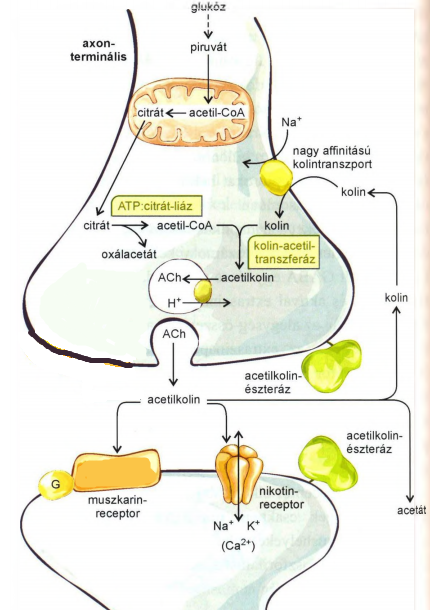
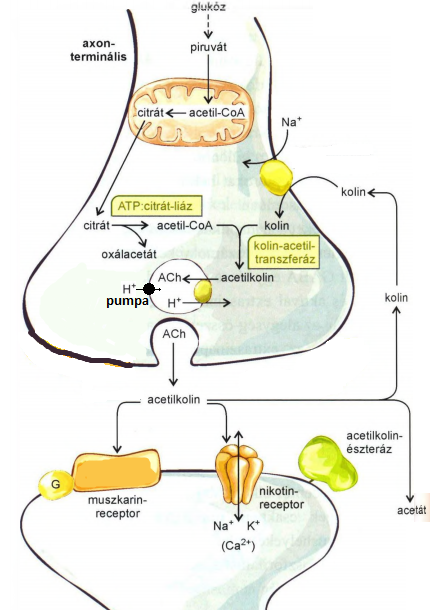
make some changes

diff --git a/BioKemia/III/biokemia_III.html b/BioKemia/III/biokemia_III.html
@@ -989,16 +989,20 @@
 			<font style="font-size:80%">kis mennyiségben hormon, mert mellékvesevelőben is termelődik</font>
 			<li>adrenalin &#10140; hormon, mellékvesevelő</li>
 			<span class="IMPORTANT">adrenalin nem neurotranszmitter!!!!</span>
-			<li>dopamin (lásd később) &#10140; neurotranszmitter, KIR-ben termelődik</li>
+			<li>dopamin &#10140; neurotranszmitter, KIR-ben termelődik</li>
 		</ul>
 	  <hr><strong>szintézis</strong> <span class="IMPORTANT">képletek</span>
 		<li>Tyr-felvétel</li>
-		<li>1) Tyr-hidroxiláz transzferáz</li><ul>
+		<li>1) Tyr-hidroxiláz</li><ul>
 			<li>ez a sebességmeghatározó lépés</li>
 			<li>kofaktora: tetrahidrobiopterin (lásd még fenilketonúria)</li>
 		</ul>
-		<li>2) aromás aminosav dekarboxiláz <font style="font-size:80%">(nem specifikus &#10140; más aromás aminosavakat is dekarboxilál)</font></li>
-		ez gyógyszerrel gátolható: gyógyszer és dopamin se jut KIR-be be &#10140; Parkinson-kór kezelése
+		<li>2) aromás aminosav dekarboxiláz <font style="font-size:80%">(nem specifikus &#10140; más aromás aminosavakat is dekarboxilál)</font></li><ul>
+			<li>	Parkinson-kór esetében dopaminhiány van a KIR-ben &#10140; 	ezért ilyenkor...</li>
+			<li>	egyrészt beadnak Levodopa=L-dopa-t &#10140; ez átjut vér-agy gáton &#10140; nő a dopamin agyban, de nőne perifériásan is</li>
+			<li>másrészt beadnak aromás-aminosav-dekarboxiláz gátlót is &#10140; ez már NEM jut át vér-agy gáton (dopamin se) &#10140; perifériásan mégse fog nőni a dopamin</li>
+			forrás: TK + ea + farmakológia alapjai
+		</ul>
 		<li>vezikulába felvételre kerül</li><ul>
 			<li>VMAT (vezikuláris monoamin-transzporter) végzi &#10140; proton-antiporter</li>
 			<li>proton-pumpa biztosítja a VMAT működését</li>
@@ -1728,10 +1732,12 @@
 			NaK-ATPáz gátlása &#10140; [Na<sup>+</sup>]<sub>IC</sub> megnő &#10140; ennek hatására a két irányban működni képes Na<sup>+</sup>/Ca<sup>2+</sup>-antiporteren keresztül Ca<sup>2+</sup> lép be a sejtekbe, s közvetlenül ez a felelős a szívizom-kontrakció fokozásáért
 			<img data-src="szvmfkzs.png">
 		</ul></details>
-		<details class="kerdes 3/2"><summary>A szívglikozidok hatása a Na<sup>+</sup>K<sup>+</sup>-pumpára. <strong>Endogén szívglikozidok keletkezése, hatása</strong>.</summary><ul class="normal">
-			<li>keletkezésük &#10140; a mellékvesekéreg a zona_fasciculata-ban szintetizálódnak progeszteronból</li>
+		<details class="kerdes 3/1"><summary>A szívglikozidok hatása a Na<sup>+</sup>K<sup>+</sup>-pumpára. <strong>Endogén szívglikozidok keletkezése</strong>, hatása.</summary><ul class="normal">
+			<li>a mellékvesekéreg a zona_fasciculata-ban szintetizálódnak progeszteronból</li>
+		</ul></details>
+		<details class="kerdes 3/1"><summary>A szívglikozidok hatása a Na<sup>+</sup>K<sup>+</sup>-pumpára. <strong>Endogén szívglikozidok</strong> keletkezése, <strong>hatása</strong>.</summary><ul class="normal">
 			<li>ezek is ugyanoda (&alpha;-alegység E2-P konformáció) kötődnek</li>
-			<li>hatása &#10140; érfali simaizomsejtekben a Na<sup>+</sup>K<sup>+</sup>-ATPáz gátlás eredményeképpen létrejövő [Ca<sup>2+</sup>]<sub>IC</sub>-emelkedés vazokonstrikciót okoz</li>
+			<li>érfali simaizomsejtekben a Na<sup>+</sup>K<sup>+</sup>-ATPáz gátlás eredményeképpen létrejövő [Ca<sup>2+</sup>]<sub>IC</sub>-emelkedés vazokonstrikciót okoz</li>
 		</ul></details>
 	</ul></details>
 	<details class="open"><summary class="status"><strong>23. A Na<sup>+</sup>/H<sup>+</sup>-cseretranszporter, H<sup>+</sup>-ATP-áz, vezikuláris neurotranszmitter antiporter előfordulása, szerepe</strong></summary><ul class="normal">
@@ -1775,7 +1781,7 @@
 		<details class="kerdes 3/5"><summary><strong>ABC-transzporterek</strong> általános tulajdonságai, <strong>funkciója</strong></summary><ul class="normal">
 			ATP-t felhasználva anyagokat pumpálnak ki a sejtekből:
 			<li>pl. tumorellenes szerek</li><ul>
-				<li><span class="WHITE">ABCB1</span> &#10140; bélhámsejtek apikális membránjában található &#10140; lipofil karakterű drogokat pumpál ki a sejtekből &#10140; tumorsejtekben a kemoterápiás kezelés során gyakran fordul elő az ABCB1 fokozott expressziója, ezek pedig kipumpálják a tumorellenes szereket <abbr title="tumorsejtekben a kemoterápiás kezelés során gyakran fordul elő az ABCB1 fokozott expressziója, melynek következtében a sejtek kipumpálják a daganatos betegségek kezelésében alkalmazott citosztatikumokat, nagymértékben lerontva ezáltal a kezelés hatékonyságát">'</abbr></li>
+				<li><span class="WHITE">ABCB1</span> (multidrog rezisztencia protein) &#10140; bélhámsejtek apikális membránjában található &#10140; lipofil karakterű drogokat pumpál ki a sejtekből &#10140; tumorsejtekben a kemoterápiás kezelés során gyakran fordul elő az ABCB1 fokozott expressziója, ezek pedig kipumpálják a tumorellenes szereket <abbr title="tumorsejtekben a kemoterápiás kezelés során gyakran fordul elő az ABCB1 fokozott expressziója, melynek következtében a sejtek kipumpálják a daganatos betegségek kezelésében alkalmazott citosztatikumokat, nagymértékben lerontva ezáltal a kezelés hatékonyságát">'</abbr></li>
 			</ul>
 			<li>pl. epesavak & koleszterin <span class="LASD">epesavak entero-hepatikus cirkulációja</span></li><ul>
 				<li><span class="WHITE">ABCG5/ABCG8</span> &#10140; májban a koleszterin pumpál ki epébe</li>
@@ -1785,7 +1791,7 @@
 				<li><span class="WHITE">ABCA1</span> &#10140; májban nHDL képzését végzi: foszfolipidek & koleszterin pumpál ki (reverz koleszterintranszport)</li>
 			</ul>
 			<li>pl. ionok</li><ul>
-				<li><span class="WHITE"><abbr title="cisztikus-fibrózis-transzporter">CFTR</abbr></span> &#10140; transzcelluláris Cl<sup>-</sup> transzportot tesz lehetővé</li>
+				<li><span class="WHITE"><abbr title="cisztikus-fibrózis-transzporter">CFTR</abbr></span> &#10140; transzcelluláris Cl<sup>-</sup> transzportot tesz lehetővé: pl. nyálelválasztás(nyálmirigy & pancreas)</li>
 			</ul>
 			<li>ATP-függő K<sup>+</sup> csatorna szulfonilurea-receptor(SUR) alegysége &#10140; ez megkötve ATP-t bezárja a csatornát (lásd élettan: inzulin)</li>
 		</ul></details>
@@ -1819,24 +1825,32 @@
 	  <strong>vezikulum keletkezése</strong>
 		<li>sejttestben képződnek</li>
 		<li>mikrotubulusokon keresztül lejutnak az axon terminálisba (axonon keresztül)</li>
-		<li>proton-pumpa segítségével neurotranszmitterrel feltöltődik</li>
-	  <hr><strong>exocitózis lépései</strong>
-		<li>dokkolás &#10140; <font style="font-size:80%">létrejön a kapcsolat a vezikula és a plazmamembrán között</font></li>
-		<li>priming('prájming')</li>
-		folytatáshoz Ca<sup>2+</sup>-jel kell (szinapszis)
-		<li>fúzió &#10140; neurotranszmitter kijut</li>
-		&#10140; exocitózis után, hogy a membrán mérete ne nőljön, endocitózissal visszavételre kerülnek a veziklulák
+		<li><abbr title="be">proton</abbr>-pumpa + <abbr title="ki">H<sup>+</sup></abbr>/<abbr title="be">neurotranszmitter</abbr>-antiporter 'együttműködésével' feltöltődik neurotranszmitterrel</li>
 	  <hr>
+		<table><tr><th>exocitózis lépései</th>  <th>lényege</th>  <th><abbr title="melyek szerepet játszanak benne">fehérjék</abbr></th></tr>
+			<tr><th>dokkolás</th>
+				<td><font style="font-size:80%">létrejön a kapcsolat a vezikula és a plazmamembrán között</font></td>
+				<td>Rab fehérje(GTPáz)</td>
+			</tr>
+			<tr><th>priming('prájming')</th>
+				<td>SNARE fehérjék összekapcsolódnak</td>
+				<td style="text-align:left">
+					<li>V-SNARE &#10140; vezikula membránjában vannak &#10140; pl. <span class="WHITE">synaptobrevin</span></li>
+					<li>T-SNARE &#10140; plazmamembránban vannak &#10140; pl. <span class="WHITE">syntaxin</span> <span class="WHITE">SNAP-25</span></li>
+				</td>
+			</tr>
+			<tr><th>folytatáshoz Ca<sup>2+</sup>-jel kell (szinapszis)</th>
+				<td colspan="2"><span class="WHITE">synaptotagmin</span> &#10140; Ca<sup>2+</sup>-növekedést ez érzékeli: C2-doménjével megköti, és hatására a fúzió megindul</td>
+			</tr>
+			<tr><th>fúzió</th>
+				<td>neurotranszmitter kijut</td>
+				<td><span class="WHITE">NSF</span>(ATPáz) &#10140; fúzió után ez tekeri szét a fehérjéket újra</td>
+			</tr>
+		</table>
+	  <hr>
+		<li>exocitózis után, hogy a membrán mérete ne nőljön, endocitózissal visszavételre kerülnek a veziklulák</li>
 		<li>a fúzió nagyon gyorsan játszódik le (kevesebb, mint 1ms) (hisz akciós potenciálok egymás után nagyon gyors végbemehetnek)</li>
-		<li><font style="font-size:80%">klatrinburkos exocitózis (klatrinbrok borítja a vezikulát a 'dokkolás előtt')</font></li>
-	  <hr><strong>főbb fehérjék és funkciójuk</strong>
-		<li><font style="font-size:80%">Rab fehérje(GTPáz) &#10140; dokkolásban játszik szerepet</font></li>
-		<li>priming('prájming') &#10140; SNARE fehérjék kapcsolódnak össze</li><ul>
-			<li>V-SNARE &#10140; vezikula membránjában vannak &#10140; pl. synaptobrevin</li>
-			<li>T-SNARE &#10140; plazmamembránban vannak &#10140; pl. syntaxin, SNAP-25</li>
-		</ul>
-		<li>synaptotagmin &#10140; Ca<sup>2+</sup>-növekedést ez érzékeli: C2-doménjével megköti, és hatására a fúzió megindul</li>
-		<li>NSF(ATPáz) &#10140; fúzió után ez tekeri szét a fehérjéket újra</li>
+		<li><font style="font-size:80%">az exocitózis klatrinburkos (klatrinburok borítja a vezikulát a 'dokkolás előtt')</font></li>
 	  <hr><strong>botulinum(toxin)</strong>
 		<li>ezeket anaerob baktériumok termelik, pl. tetanusz</li>
 		<li>SNARE fehérjétek hasítja &#10140; gátolják a kolinerg-szinapszist <abbr title="&#10140; görcsöt okoz">'</abbr></li>
@@ -1844,44 +1858,51 @@
 		<font style="font-size:80%"><span class="IMPORTANT">képek</span> &#10140; csak azért, hátha segítik a megértést</font>
 		<img data-src="mhzfzn.png">
 	</ul></details>
-	<details class="kerdes 3/6"><summary class="status"><strong>27. Acetilkolin muszkarinreceptorok típusai, szerkezete, előfordulása, jelátvitele, hatásai röviden</strong></summary><ul class="normal">
-		<details><summary><strong>TÁBLÁZAT</strong></summary><ul class="normal">
+	<details class="open"><summary class="status"><strong>27. Acetilkolin muszkarinreceptorok típusai, szerkezete, előfordulása, jelátvitele, hatásai röviden</strong></summary><ul class="normal">
+		<details class="kerdes 3/2"><summary><strong>Acetilkolin muszkarinreceptorok típusai, szerkezete</strong>, előfordulása, jelátvitele, hatásai röviden</summary><ul class="normal">
+			<div class="imp [106]"></div>
+			<details><summary>(7TM-fehérjék mechanizmusa)</summary><ul class="normal">
+				<div class="imp [444]"></div>
+			</ul></details>
+		</ul></details>
+		<details class="kerdes 3/3"><summary><strong>Acetilkolin muszkarinreceptorok</strong> típusai, szerkezete, előfordulása, <strong>jelátvitele</strong>, hatásai röviden</summary><ul class="normal">
+		  <strong>G<sub>i,o</sub> jelátvitel</strong>
+			<li>adenilát-ciklázt gátol &#10140; cAMP csökken</li>
+			<li>K<sup>+</sup>-csatornát nyit &#10140; hiperpolarizáció</li>
+		  <hr><strong>G<sub>q,11</sub> jelátvitel</strong>
+			<li>PLC&beta;/&gamma;-t aktivál &#10140; PIP<sub>2</sub> lebomlik:</li><ul>
+				<li>IP<sub>3</sub> &#10140; Ca<sup>2+</sup>-csatornát nyit ER</li>
+				<li>DAG &#10140; PKC-t aktiválja</li>
+			</ul>
+		</ul></details>
+		<details class="kerdes 3/3"><summary><strong>Acetilkolin muszkarinreceptorok</strong> típusai, szerkezete, <strong>előfordulása</strong>, jelátvitele, <strong>hatásai</strong> röviden</summary><ul class="normal">
+			<li>szívben M<sub>2</sub> található</li><ul>
+				<li>psy IR aktiválja</li>
+				<li>hatása &#10140; negatív kronotróp<abbr title="és negatív dromotróp is">'</abbr> szabályozás (szívfrekvencia csökken)</li>
+			</ul>
+			<li>mirigyek(exo/endokrin) elválasztását M<sub>3</sub> serkenti</li>
+			<li>KIR-ben található az M<sub>1,2,4,5</sub> &#10140; neurotranszmitter-felszabadulást gátolják</li>
+		</ul></details>
+	</ul></details>
+	<details class="open"><summary class="status"><strong>28. Acetilkolin nikotinreceptorok típusai, szerkezete, előfordulása, jelátvitele, hatásai röviden</strong></summary><ul class="normal">
+		<details class="kerdes 3/2"><summary><strong>Acetilkolin nikotinreceptorok típusai</strong>, szerkezete, előfordulása, jelátvitele, hatásai röviden</summary><ul class="normal">
 			<div class="imp [106]"></div>
 		</ul></details>
-	  <hr><strong>G<sub>i,o</sub> jelátvitel</strong>
-		<li>adenilát-ciklázt gátol &#10140; cAMP csökken</li>
-		<li>K<sup>+</sup>-csatornát nyit &#10140; hiperpolarizáció</li>
-	  <hr><strong>G<sub>q,11</sub> jelátvitel</strong>
-		<li>PLC&beta;/&gamma;-t aktivál &#10140; PIP<sub>2</sub> lebomlik:</li><ul>
-			<li>IP<sub>3</sub> &#10140; Ca<sup>2+</sup>-csatornát nyit ER</li>
-			<li>DAG &#10140; PKC-t aktiválja</li>
-		</ul>
-		<details><summary>(7TM-fehérjék mechanizmusa)</summary><ul class="normal">
-			<div class="imp [444]"></div>
+		<details class="kerdes 3/1"><summary><strong>Acetilkolin nikotinreceptorok</strong> típusai, <strong>szerkezete</strong>, előfordulása, jelátvitele, hatásai röviden</summary><ul class="normal">
+			<li>pentamer &#10140; 2&alpha;1&beta;1&gamma;1&delta; alegységből áll<abbr title="delta helyett lehet episzilon alegység is">'</abbr> <abbr title="elég ennyit tudni róla (előadáson mondták) &#10140; ettől még persze tanárfüggő, de az engem már nem érdekel">'</abbr></li>
+			<img data-src="jnktnrgrcptr.png">
 		</ul></details>
-	  <hr><strong>muszkarinerg receptorok funkciója</strong>
-		<li>szívben M<sub>2</sub> található</li><ul>
-			<li>psy IR aktiválja</li>
-			<li>hatása &#10140; negatív kronotróp<abbr title="és negatív dromotróp is">'</abbr> szabályozás (szívfrekvencia csökken)</li>
-		</ul>
-		<li>mirigyek(exo/endokrin) elválasztását M<sub>3</sub> serkenti</li>
-		<li>KIR-ben található az M<sub>1,2,4,5</sub> &#10140; transzmitterfelszabadulás-gátolnak</li>
-	</ul></details>
-	<details class="kerdes 3/4"><summary class="status"><strong>28. Acetilkolin nikotinreceptorok típusai, szerkezete, előfordulása, jelátvitele, hatásai röviden</strong></summary><ul class="normal">
-		<details><summary><strong>TÁBLÁZAT</strong></summary><ul class="normal">
-			<div class="imp [106]"></div>
+		<details class="kerdes 3/1"><summary><strong>Acetilkolin nikotinreceptorok</strong> típusai, szerkezete, <strong>előfordulása</strong>, jelátvitele, hatásai röviden</summary><ul class="normal">
+			<li>hcs.izom, vegetatív ggl, KIR</li>
 		</ul></details>
-	  <hr><strong>szerkezete</strong><abbr title="elég ennyit tudni róla (előadáson mondták) &#10140; ettől még persze tanárfüggő, de az engem már nem érdekel">'</abbr>
-		<li>pentamer &#10140; 2&alpha;1&beta;1&gamma;1&delta; alegységből áll<abbr title="delta helyett lehet episzilon alegység is">'</abbr></li>
-	  <hr><strong>előfordulása</strong>
-		<li>hcs.izom, vegetatív ggl, KIR</li>
-	  <hr><strong>jelátvitele</strong>
-		<li>Na<sup>+</sup>- és K<sup>+</sup>-csatornát nyit &#10140; mivel Na<sup>+</sup>-ra nézve a <abbr title="egyensúlyi potenciáljától távolabb van">hajtóerő</abbr> nagyobb, így beáramlása lesz a döntő &#10140; depolarizáció</li>
-		<li>így alakul ki AP hcs.izomban <span class="LASD">kövi tétel</span></li>
+		<details class="kerdes 3/2"><summary><strong>Acetilkolin nikotinreceptorok</strong> típusai, szerkezete, előfordulása, <strong>jelátvitele, hatásai röviden</strong></summary><ul class="normal">
+			<li>Na<sup>+</sup>- és K<sup>+</sup>-csatornát nyit &#10140; mivel Na<sup>+</sup>-ra nézve a <abbr title="egyensúlyi potenciáljától távolabb van">hajtóerő</abbr> nagyobb, így annak beáramlása lesz a döntő &#10140; depolarizáció</li>
+			<li>így alakul ki AP hcs.izomban <span class="LASD">kövi tétel</span></li>
+		</ul></details>
 	</ul></details>
-	<details class="kerdes 3/8"><summary class="status"><strong>29. Az acetilkolin nikotinreceptor jelátvitele a harántcsíkolt izomban részletesen</strong></summary><ul class="normal">
+	<details class="kerdes 3/5"><summary class="status"><strong>29. Az acetilkolin nikotinreceptor jelátvitele a harántcsíkolt izomban részletesen</strong></summary><ul class="normal">
 		<img style="max-width:25%" data-src="acktjhmn.png">
-		<li><strong>poszt</strong>szinaptikus(motoros véglemez) membránon lévő nikotinerg-receptor megköti ACh-t &#10140; Na<sup>+</sup> & K<sup>+</sup> enged át <span class="WHITE">kép</span> <abbr title="mert az egyensúlyi potenciálhoz való viszony">&#10140;</abbr> Na<sup>+</sup> be K<sup>+</sup> ki, azonban mivel Na<sup>+</sup> hajtóereje nagyobb így ez depolarizációt eredményez</li>
+		<li><strong>poszt</strong>szinaptikus(motoros véglemez) membránon lévő nikotinerg-receptor megköti ACh-t &#10140; Na<sup>+</sup> & K<sup>+</sup> enged át <span class="WHITE">kép</span> <abbr title="mert az egyensúlyi potenciálhoz való viszony">&#10140;</abbr> Na<sup>+</sup> be K<sup>+</sup> ki &#10140; mivel Na<sup>+</sup> hajtóereje nagyobb, így ez depolarizációt eredményez</li>
 		<details><summary>a neurotranszmitter(ACh) sorsa</summary><ul class="normal">
 			<div class="imp [223]"></div>
 		</ul></details>
@@ -1906,27 +1927,30 @@
 	</ul></details>
 	<details class="open"><summary class="status"><strong>30. Az acetilkolin elbontása képlettel. Kolinészterázok és pszeudokolinészterázok. Acetilkolinészteráz-gátlók típusai, hatásmechanizmusa, felhasználásuk</strong></summary><ul class="normal">
 		<details class="kerdes 3/4"><summary><strong>Az acetilkolin elbontása képlettel</strong>. Kolinészterázok és pszeudokolinészterázok. Acetilkolinészteráz-gátlók típusai, hatásmechanizmusa, felhasználásuk</summary><ul class="normal">
-			<img style="float:none" data-src="achtklnsztnzs.png">
-			<li>képletek ugyanazok, mint szintézisnél csak visszafele</li>
+			<img style="float:none" data-src="rkcvszflm.png">
+			<li>képletek ugyanazok szinte mint szintézisnél, csak visszafele &#10140; de CoA nincs!! tehát acetát keletkezik, nem acetil-CoA</li>
 			<div class="imp [223]"></div> <!-- neurotranszmitter(ACh) sorsa -->
 		</ul></details>
 		<details class="kerdes 3/3"><summary>Az acetilkolin elbontása képlettel. <strong>Kolinészterázok és pszeudokolinészterázok</strong>. Acetilkolinészteráz-gátlók típusai, hatásmechanizmusa, felhasználásuk</summary><ul class="normal">
-			<li>acetilkolin-észterázok</li><ul>
+			kétféle kolin-észteráz van:
+			<li>valódi acetilkolin-észterázok</li><ul>
 				<li>több típusa(izoformája) van</li>
-				<li>lokalizációja mindegyiknek &#10140; plazmamembránhoz kötött formában van jelen a szinapszisban</li>
+				<li>lokalizációja mindegyiknek &#10140; (preszinaptikus & posztszinaptikus) plazmamembránhoz kötött formában van jelen a szinapszisban</li>
 				<li>működése &#10140; szerin-proteáz</li>
 			</ul>
-			<li>pszeudokolinészterázok</li><ul>
+			<li>pszeudokolin-észterázok</li><ul>
 				<li>májban találhatók a citoplazmában</li>
 				<li>szervezetbe került toxikus észtereket hidrolizálja</li>
 			</ul>
 		</ul></details>
-		<details class="kerdes 3/2"><summary>Az acetilkolin elbontása képlettel. Kolinészterázok és pszeudokolinészterázok. <strong>Acetilkolinészteráz-gátlók típusai, hatásmechanizmusa, felhasználásuk</strong></summary><ul class="normal">
-			megkülönböztetünk..
-			<li>irreverzibilis gátlókat &#10140; pl. rovarirtóként használt szerves foszfátok a szerint foszforilálják</li>
-			<li>reverzibilis gátlókat &#10140; gátolják az acetilkolin hidrolízisét &#10140; myasthenia gravis tüneteinek enyhítésére használják</li>
+		<details class="kerdes 3/3"><summary>Az acetilkolin elbontása képlettel. Kolinészterázok és pszeudokolinészterázok. <strong>Acetilkolinészteráz-gátlók típusai, hatásmechanizmusa, felhasználásuk</strong></summary><ul class="normal">
+			<li>gátlásuk hatására ACh tovább marad a szinaptikus résben, így a psy aktivitás fokozódik &#10140; pl.nyáltermelés+könnytermelés fokozódik</li>
+			<li>gátlók két csoportja</li><ul>
+				<li>irreverzibilis gátlók &#10140; foszforilálják a szerint (szerin-proteáz!) &#10140; pl. rovarirtóként használt alkilfoszfátok</li>
+				<li>reverzibilis gátlók &#10140; enzimhez kötődve gátolják működését &#10140; pl. myasthenia gravis tüneteinek enyhítésére használják</li>
+			</ul>
 			myasthenia gravis &#10140; autoimmun betegség: antitest termelődik a hcs.izom nikotinerg-receptora ellen
-			<li>ezek következménye, hogy ACh megnő a szervezetben &#10140; a nyáltermelés+könnytermelés fokozódik</li>
+		  <hr><font style="font-size:80%">források &#10140; TK(ÁV:BK) + <abbr title="google search (farmakológia tk-ban van)">Indirekt ható kolinomimetikumok: kolin-észteráz-bénítók</abbr></font>
 		</ul></details>
 	</ul></details>
 	<details class="kerdes 3/6"><summary class="status"><strong>31. A noradrenerg axonterminális felépítése, a folyamatok helyszíne</strong></summary><ul class="normal">

diff --git a/javascript.js b/javascript.js
@@ -4,9 +4,11 @@
 }*/
 
 /* PROJECT - PROGRESS
- ✖: JS - download LS crash - FIX -> először találjam meg a hibát, mert nem mindig van: ezt út csináljam, hogy csinálok egy localstorage mappát, amibe lesznek v1 v2 v3 stb. almappák. Egy ilyenbe pedig mindig beleteszem a 
+ ✖: JS - download LS crash - FIX -> először találjam meg a hibát, mert nem mindig van: ezt út csináljam, hogy csinálok egy localstorage mappát, amibe lesznek v1 v2 v3 stb almappák.
  
  ✖: vizsgaskip &#10140; ne JS-be, hanem LS-be mentse el
+ ✖: betöltésben mi tart soká, teszteljem (kiíratom console-ba mennyi idő telt el egyes funkciók közt)
+
  ✖: LS-méret a vizsgaskippedeknél ha van 500, akkor szinte lefagy (azt fixáljam)
  ✖: F_SpanRepNew + F_SpanRepOld --> rákattolva jelenjenek meg a questek, hogy mennyi idő van belőlük vissza
  ✖: ha zöldra van állítva a dobhat új kérdéseket, akkor még1et rákattolva először legyen kék ami azt jelenti random újat dob következőnek (nem az épp soron következőt)
@@ -15,7 +17,7 @@
  ✖: (100,500,1200) -vizsga előtt kéne valami spec
  ✖: csak azokat számolja átlagba (következő kérdés chance), melyek a minimum időt már elérték
  
- ✖: importált Q esetében a mini IMG-re klikkelve nem működik a script -> szvsz az legyen a megoldás, hogy még mielőtt elmentené az expQ-kat, a scriptet írja meg az img-ekre ('html-be vésse bele') -> így úgy fogja betölteni, hogy bele van írva a script
+ ✖: importált Q esetében a mini IMG-re klikkelve nem működik a script, amennyiben visszamegyek a főoldalra, majd újra a Q-hoz
  
  ✖: upgradeQ -->  ha nincs olyan című quest, akkor kiírja az összeset, és kikereshetem. (legyen valami search funkció)
  
@@ -2832,7 +2834,7 @@ function F_prevQ(){
 	lastSavedLS = Number(lastSavedLS)
 	if ( lastSavedLS == 10 || lastSavedLS > 10 ) {
 		localStorage.setItem("hk.lastSavedLS",0)
-		//func_saveLS() // androidon crashel, mert a textel baja van
+		func_saveLS() // androidon crashel, mert a textel baja van
 	} else {
 		lastSavedLS = lastSavedLS +1
 		localStorage.setItem("hk.lastSavedLS",lastSavedLS)

diff --git a/expqs.html b/expqs.html
@@ -89,10 +89,11 @@
 				<td colspan="2">nikotin<abbr title="kis koncentrációban serkenti, nagyban gátolja már">'</abbr></td>  
 			</tr>
 		</table>
-	  <hr><strong>funkciójuk</strong> &#10140; <span class="MISS">gyűjtsem őket!</span>
-		<li>M<sub>1</sub> &#10140; szekréció fokozás</li>
-		<li><span class="IMPORTANT">M<sub>2</sub></span> &#10140; <span class="lasd">szív: SA- & AV-csomó szabályozása vegetatív_idegrendszer által</span></li>
-		<li>M<sub>3</sub> &#10140; simaizom kontrakció<span class="lasd">1.8t</span>, pupilla szűkítés</li>
+		<details><summary>funkciójuk</summary><ul class="normal">
+			<li>M<sub>1</sub> &#10140; szekréció fokozás</li>
+			<li><span class="IMPORTANT">M<sub>2</sub></span> &#10140; <span class="lasd">szív: SA- & AV-csomó szabályozása vegetatív_idegrendszer által</span></li>
+			<li>M<sub>3</sub> &#10140; simaizom kontrakció<span class="lasd">1.8t</span>, pupilla szűkítés</li>
+		</ul></details>
 	</ul></details>
 	
 	<details class="{145} kerdes 3/3"><summary>PLA<sub>2</sub>-ről mit kell tudni?</summary><ul class="normal">
